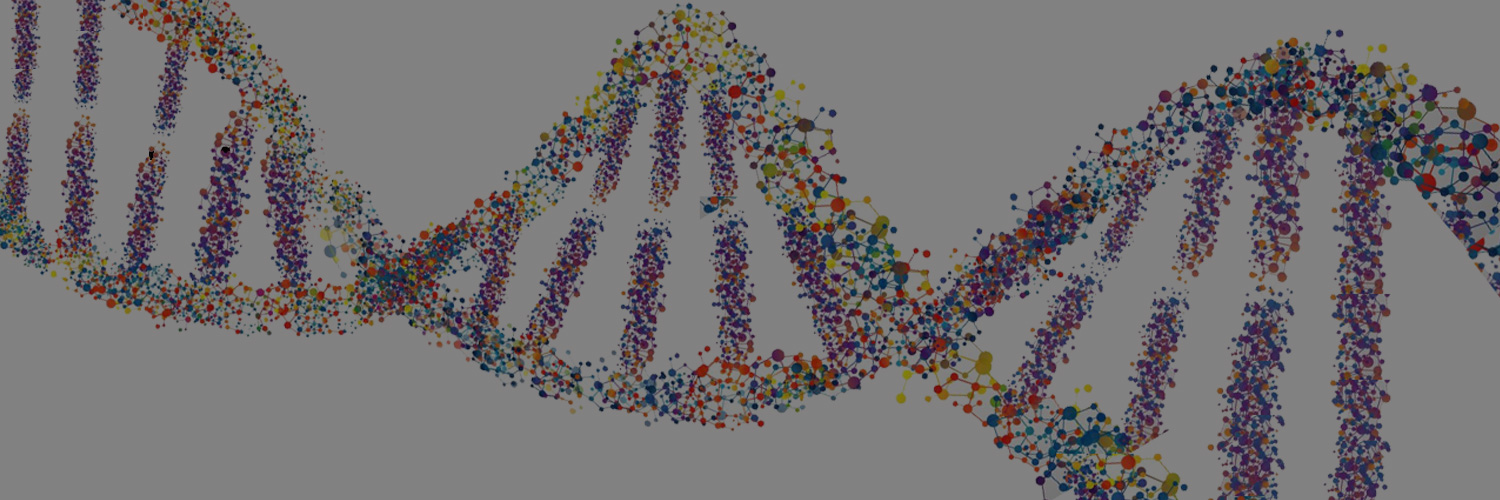
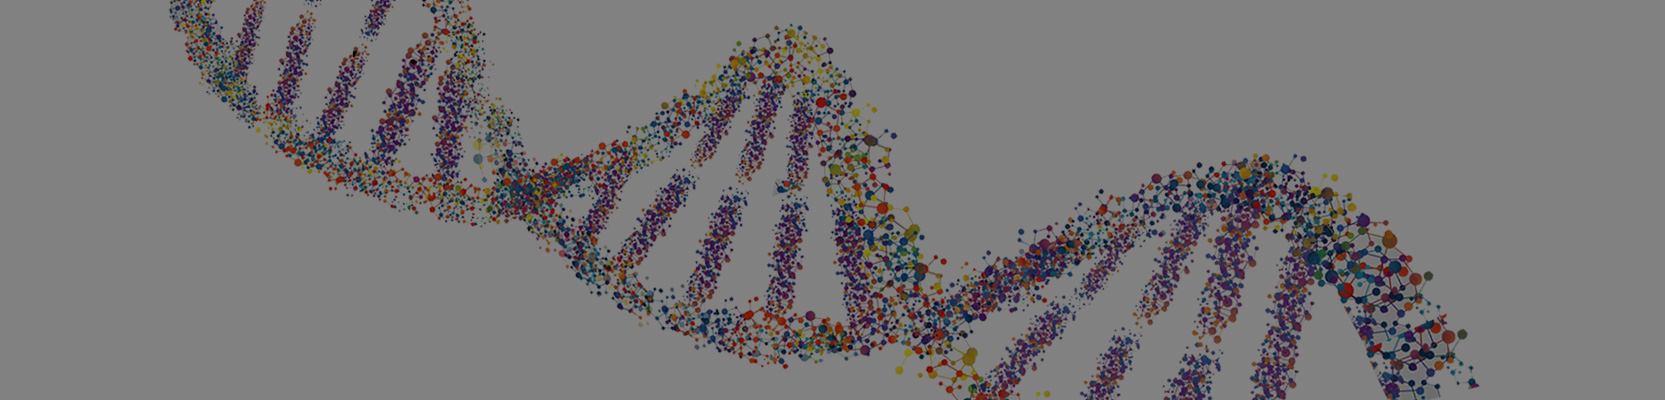
自适应

diff --git a/Content/style.css b/Content/style.css
@@ -129,13 +129,14 @@ header .free-trail-button:hover {
 /*section 轮播图start*/
 #carousel-wrapper{
     width: 100%;
-    height: 510px;
+    height: 400px;
     /*background: orange;*/
 }
 #carousel-wrapper .carousel-list-wrapper{
     height: inherit;
-    /*background: pink;*/
-    max-width: 1400px;
+    /*background: pink;
+    max-width: 1400px;*/
+    width: inherit;
     margin: 0 auto;
 }
 #carousel-wrapper .carousel-list-wrapper #carousel-list {
@@ -154,7 +155,7 @@ header .free-trail-button:hover {
     width: 100%;
     height: 100%;
     color: #fff;
-    background: url("/content/img/banner-dna-4.jpg") no-repeat center/cover;
+    background: url("/content/img/banner-dna-4.jpg") no-repeat center top; /*alipay.jpeg*/
     background-size: 100% 100%;
 }
 #carousel-wrapper .carousel-list-wrapper #carousel-list li.on{
@@ -163,14 +164,14 @@ header .free-trail-button:hover {
 }
 #carousel-wrapper #carousel-list li h2 {
     position: relative;
-    margin: 9% 30% 0;
+    margin: 3% 35% 0;
     font-size: 37px;
     font-size: 3.7rem;
     letter-spacing: 5px;
 }
 #carousel-wrapper #carousel-list li p {
     position: relative;
-    margin: 5% 40% 0;
+    margin: 3% 40% 0;
     font-size: 20px;
     font-size: 2rem;
     /*letter-spacing: .03em;*/
